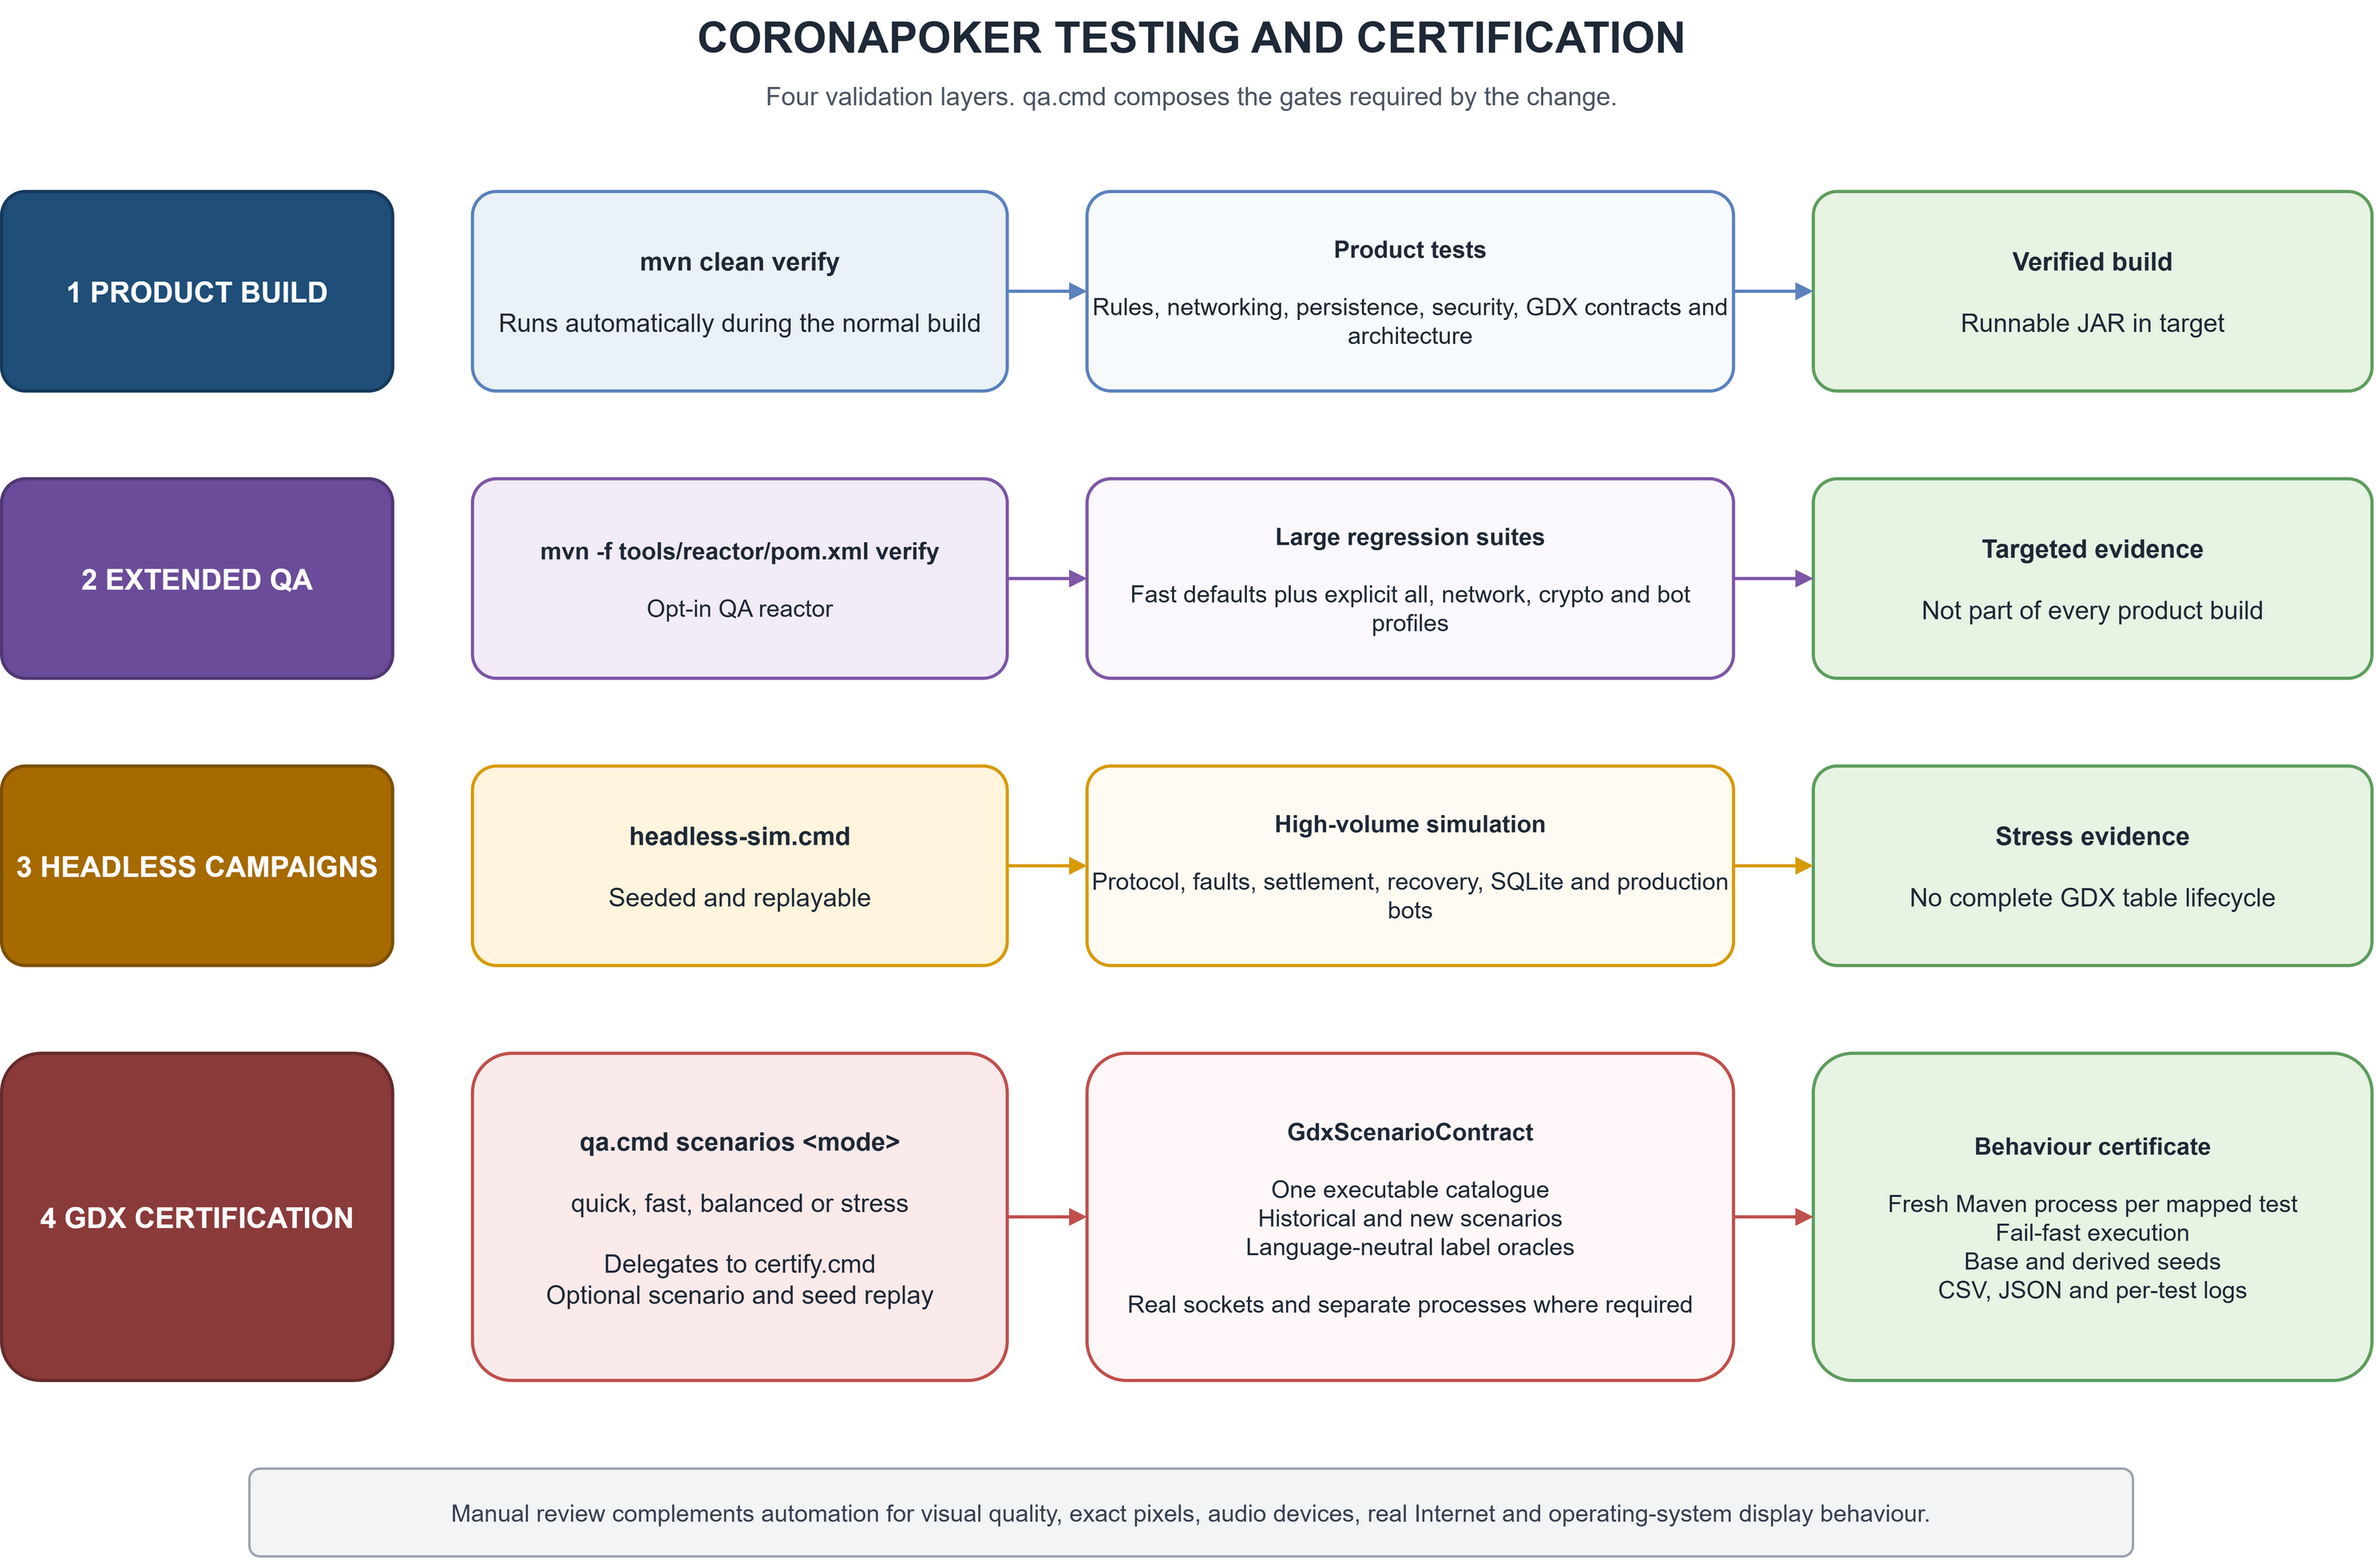
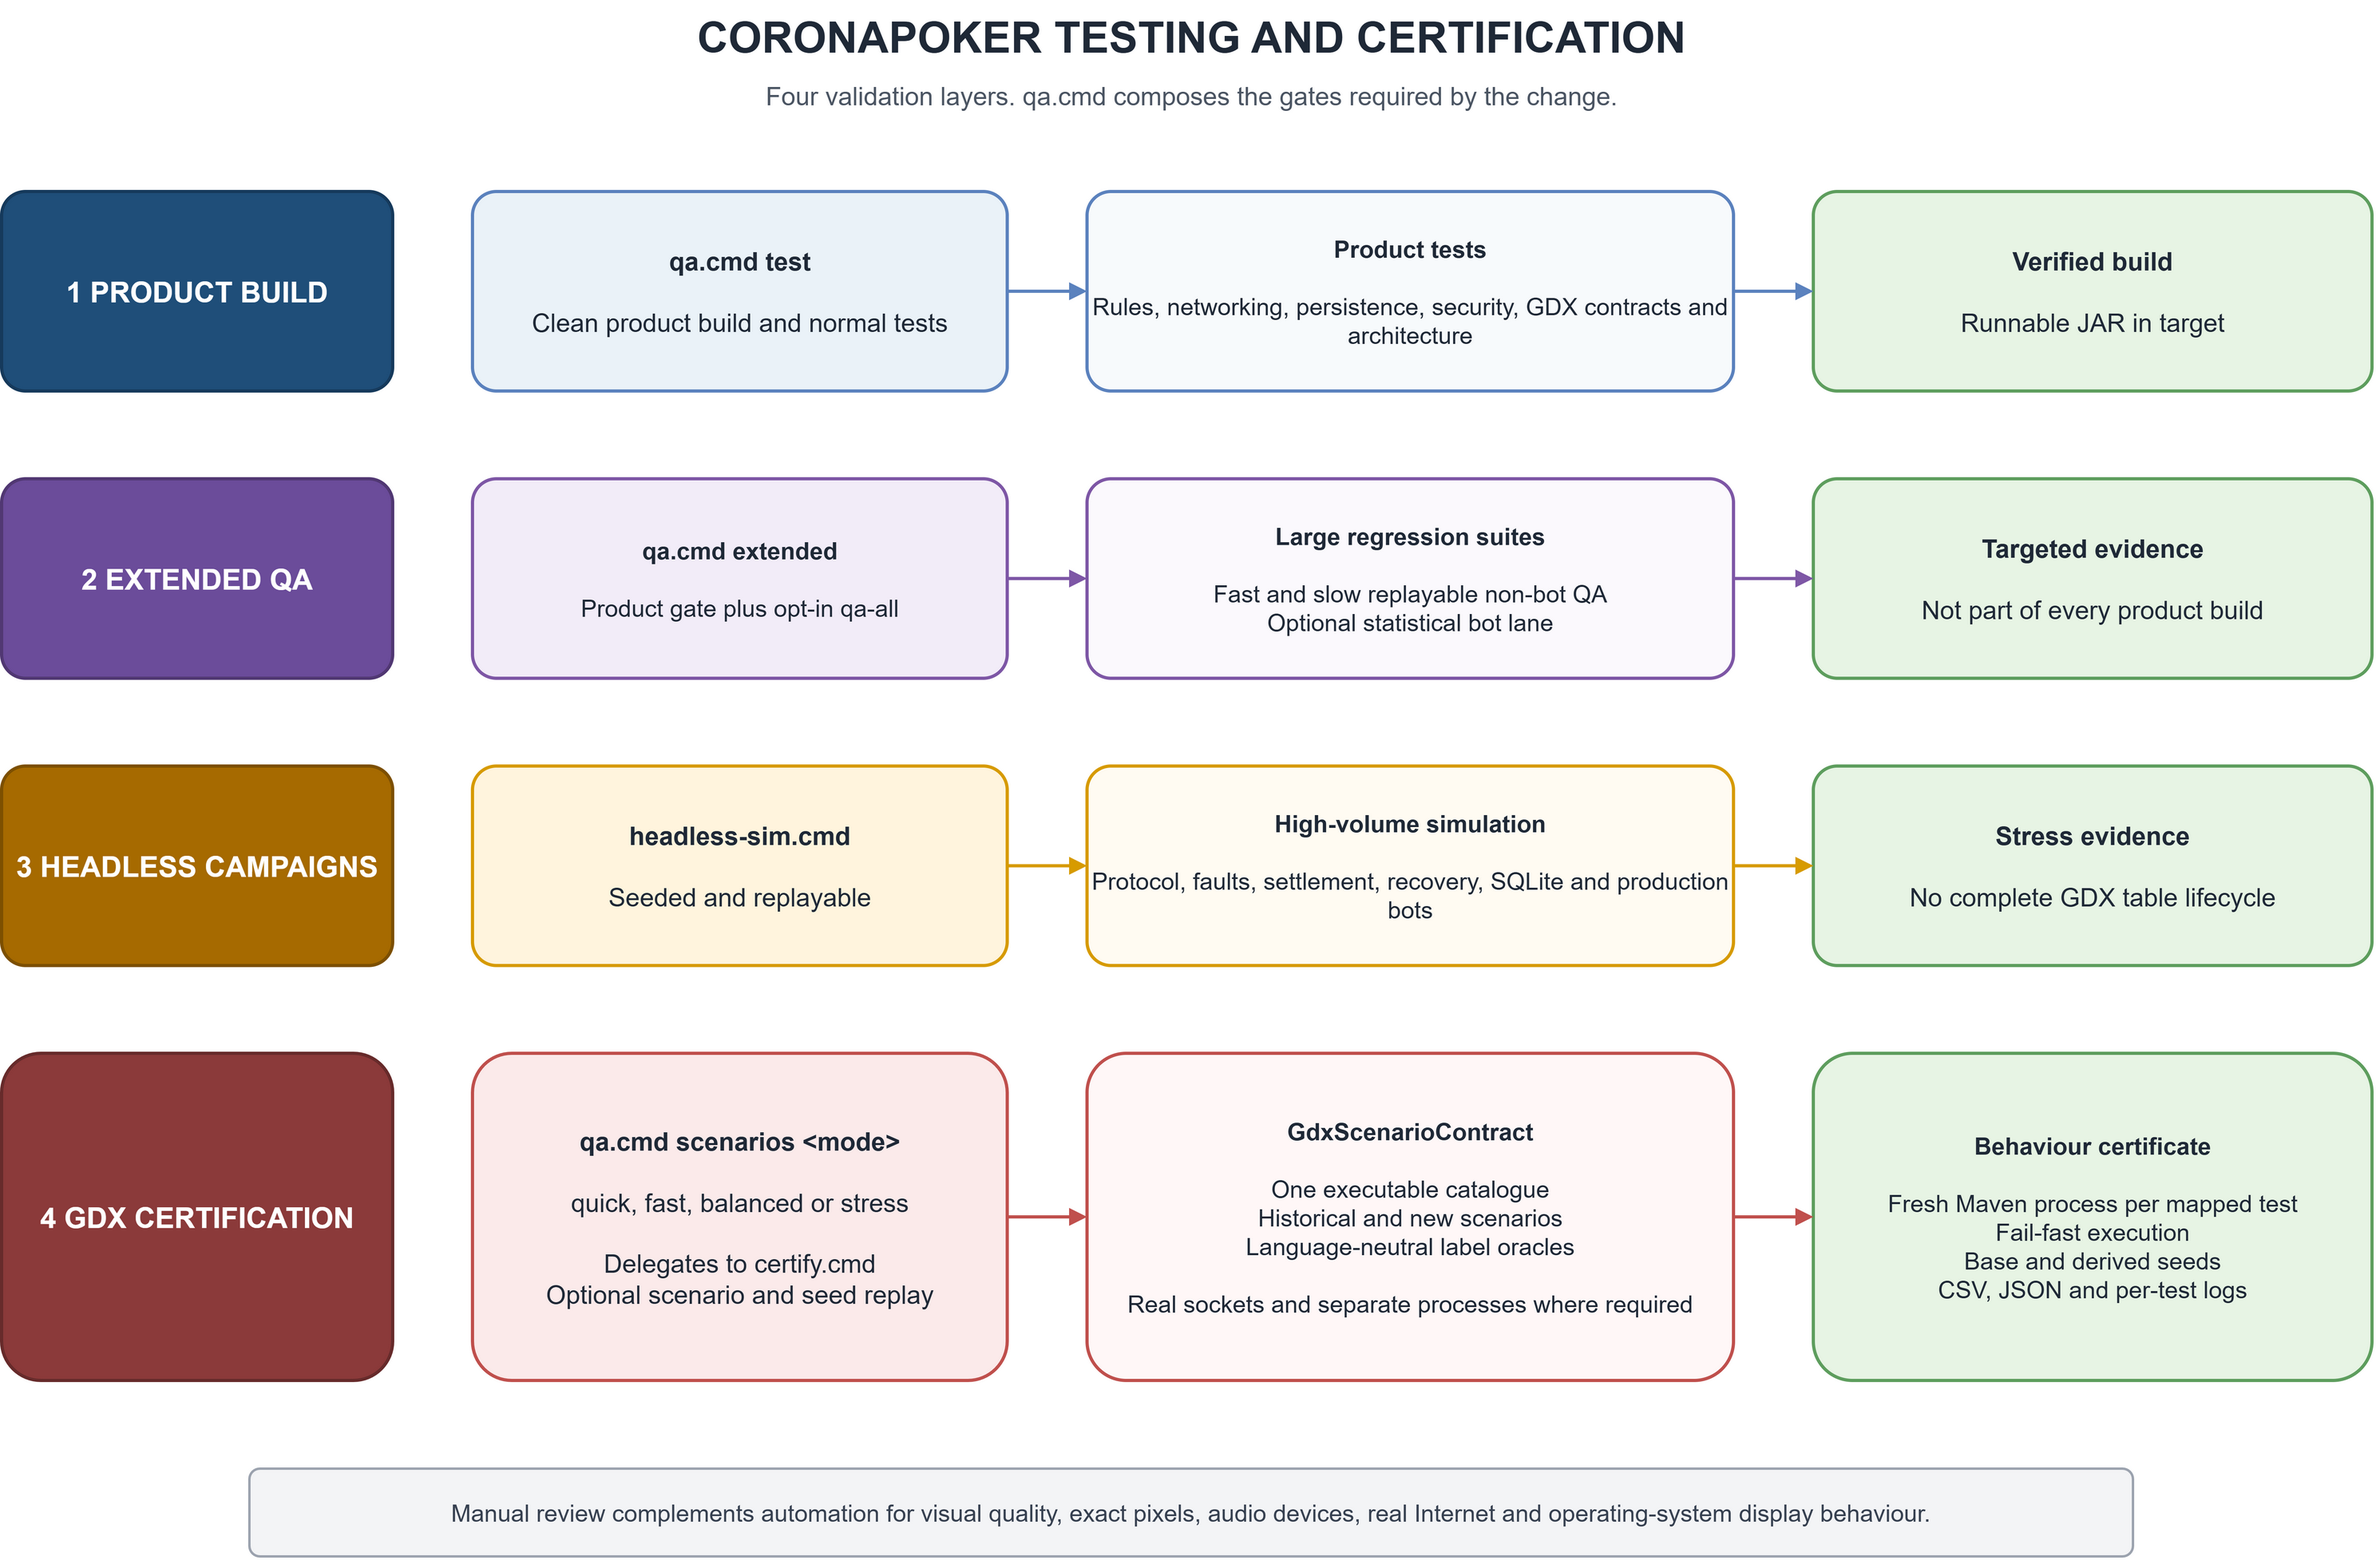
Separate standard and extended QA commands

Changed region(s): [[0.2188, 0.3434, 0.4062, 0.4058], [0.2188, 0.1561, 0.4062, 0.2185], [0.5, 0.3746, 0.7188, 0.4058]]

diff --git a/docs/TESTING.md b/docs/TESTING.md
@@ -43,13 +43,16 @@ dependencies, intermediate classes, reports and the self-contained JAR.
 # Quick rebuild plus runnable target/CoronaPoker_<version>.jar. Tests are skipped.
 .\qa.cmd build
 
-# Normal code check. Clean build plus all automated non-bot tests. No scenarios.
+# Normal code check. Clean build plus product and architecture tests.
 .\qa.cmd test
+
+# Slow replayable non-bot regression lane. No GDX scenarios.
+.\qa.cmd extended
 
 # Gameplay-wiring check: run only the complete GDX catalogue once.
 .\qa.cmd scenarios fast
 
-# Normal release gate: tests + catalogue with two passes and deeper soak.
+# Complete release gate: product tests + extended QA + scenario catalogue.
 .\qa.cmd all balanced
 
 # Major protocol/recovery/concurrency gate: five scenario passes and deepest soak.
@@ -58,8 +61,10 @@ dependencies, intermediate classes, reports and the self-contained JAR.
 
 Running `.\qa.cmd` without arguments is identical to `test`. Use `build` only
 when you deliberately want a quick compilation/package without validation.
-Scenarios never start implicitly. Choose `scenarios <mode>` when you only need
-end-to-end gameplay evidence, or `all <mode>` to run the tests first.
+Use `extended` only when the change justifies the slower replayable regression
+lane. Scenarios never start implicitly. Choose `scenarios <mode>` when you only
+need end-to-end gameplay evidence. Choose `all <mode>` to combine the product,
+extended and GDX scenario lanes. Standalone headless campaigns remain explicit.
 
 `fast`, `balanced` and `stress` do not select different scenario categories:
 they run the same unified catalogue. Only repetitions and soak depth change.
@@ -76,20 +81,20 @@ Useful focused forms:
 # Reproduce one scenario with a known seed.
 .\qa.cmd scenarios fast -Scenario spectator-rebuy-cycle -Seed 42
 
-# Add the separate, very slow statistical bot-strength lane.
-.\qa.cmd all balanced -IncludeBots
+# Add the separate statistical bot-strength lane to extended QA.
+.\qa.cmd extended -IncludeBots
 
 # Display every option without running anything.
 .\qa.cmd -Help
 ```
 
 The command uses the checkout-local `.m2/repository` and stops at the first
-failed stage. `test` and `all` clean-build and install the current product
-before the additional test suite, so those tests cannot silently resolve a
-different locally installed CoronaPoker version. Successful build/test
-execution leaves the runnable JAR in `target/`. Scenarios write evidence to
-`target/certification/`, and every non-list run writes an overall
-machine-readable summary below `target/qa/`.
+failed stage. `test` stops after the product reactor. `extended` and `all`
+clean-build and install the current product before entering `tools/qa`, so the
+extended tests cannot silently resolve another locally installed CoronaPoker
+version. Successful build/test execution leaves the runnable JAR in `target/`.
+Scenarios write evidence to `target/certification/`, and every non-list run
+writes an overall machine-readable summary below `target/qa/`.
 
 ![CoronaPoker testing and certification flow](diagrams/testing-certification-flow.png)
 
@@ -106,7 +111,9 @@ The layers are complementary. A build failure is a code-test failure. A
 certification failure is a gameplay-scenario failure. `certify.cmd` does not
 silently run the other layers.
 
-`qa.cmd` deliberately composes those existing layers. It is the public
+`qa.cmd` deliberately composes those existing layers. `test` runs only the
+product gate, `extended` adds `qa-all`, `scenarios` runs only behavioural
+certification, and `all` composes the three. It is the public
 all-in-one console tool. The Maven commands and `certify.cmd` documented below
 are lower-level entry points for focused diagnosis, CI or resuming a scenario
 schedule. They are not additional or competing scenario catalogues.

diff --git a/README.md b/README.md
@@ -329,13 +329,16 @@ first failed layer:
 # Rebuild and leave the runnable JAR in target/, without tests.
 .\qa.cmd build
 
-# Rebuild and run all automated non-bot tests, without scenarios.
+# Rebuild and run the product module and architecture tests.
 .\qa.cmd test
+
+# Add the slow replayable non-bot regression lane.
+.\qa.cmd extended
 
 # Run only every GDX scenario once when gameplay wiring needs certification.
 .\qa.cmd scenarios fast
 
-# Normal release gate: build + tests + the complete scenario catalogue twice.
+# Complete release gate: product tests + extended QA + scenarios twice.
 .\qa.cmd all balanced
 ```
 
@@ -352,9 +355,10 @@ Use the lifecycle according to intent:
 | Goal | Command |
 |---|---|
 | Rebuild runnable JAR without tests | `.\qa.cmd build` |
-| Rebuild and run all automated non-bot tests | `.\qa.cmd test` |
+| Rebuild and run product and architecture tests | `.\qa.cmd test` |
+| Add the slow replayable non-bot regression lane | `.\qa.cmd extended` |
 | Run the complete scenario catalogue once | `.\qa.cmd scenarios fast` |
-| Normal release gate | `.\qa.cmd all balanced` |
+| Complete release gate | `.\qa.cmd all balanced` |
 | Compile and run the product module tests | `mvn verify` |
 | Produce a clean GDX distribution | `mvn clean package` |
 | Build without tests for packaging diagnosis only | `mvn clean package -DskipTests` |
@@ -383,7 +387,7 @@ self-update mechanism requires that special helper at the repository root.
 
 ## 🧪 Testing & certification
 
-The normal product build runs code and architecture tests. Extended QA,
+The `test` command runs code and architecture tests. Extended QA,
 headless campaigns and GDX behavioural certification are separate layers and
 are never packaged in the game JAR. `qa.cmd` is the recommended single entry
 point. The individual Maven and runner commands remain available for diagnosis.
